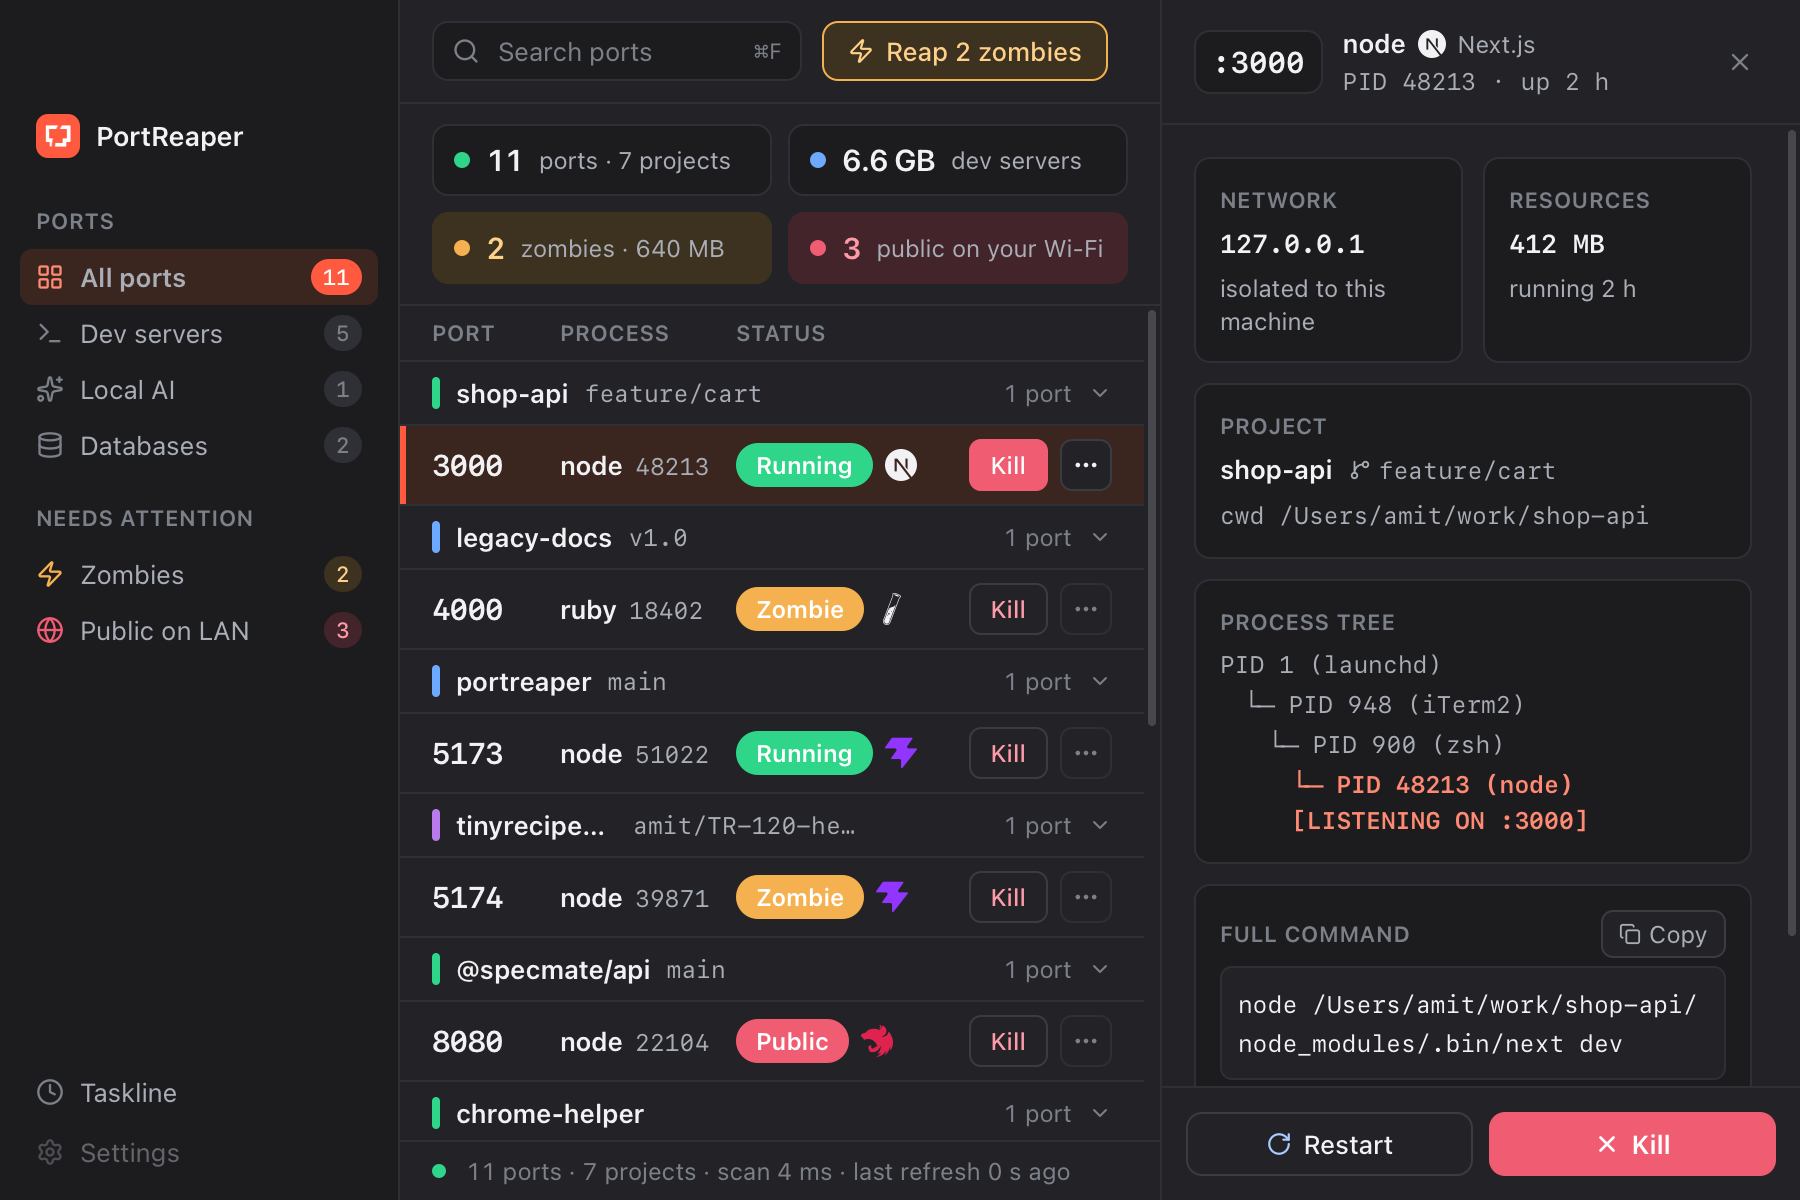
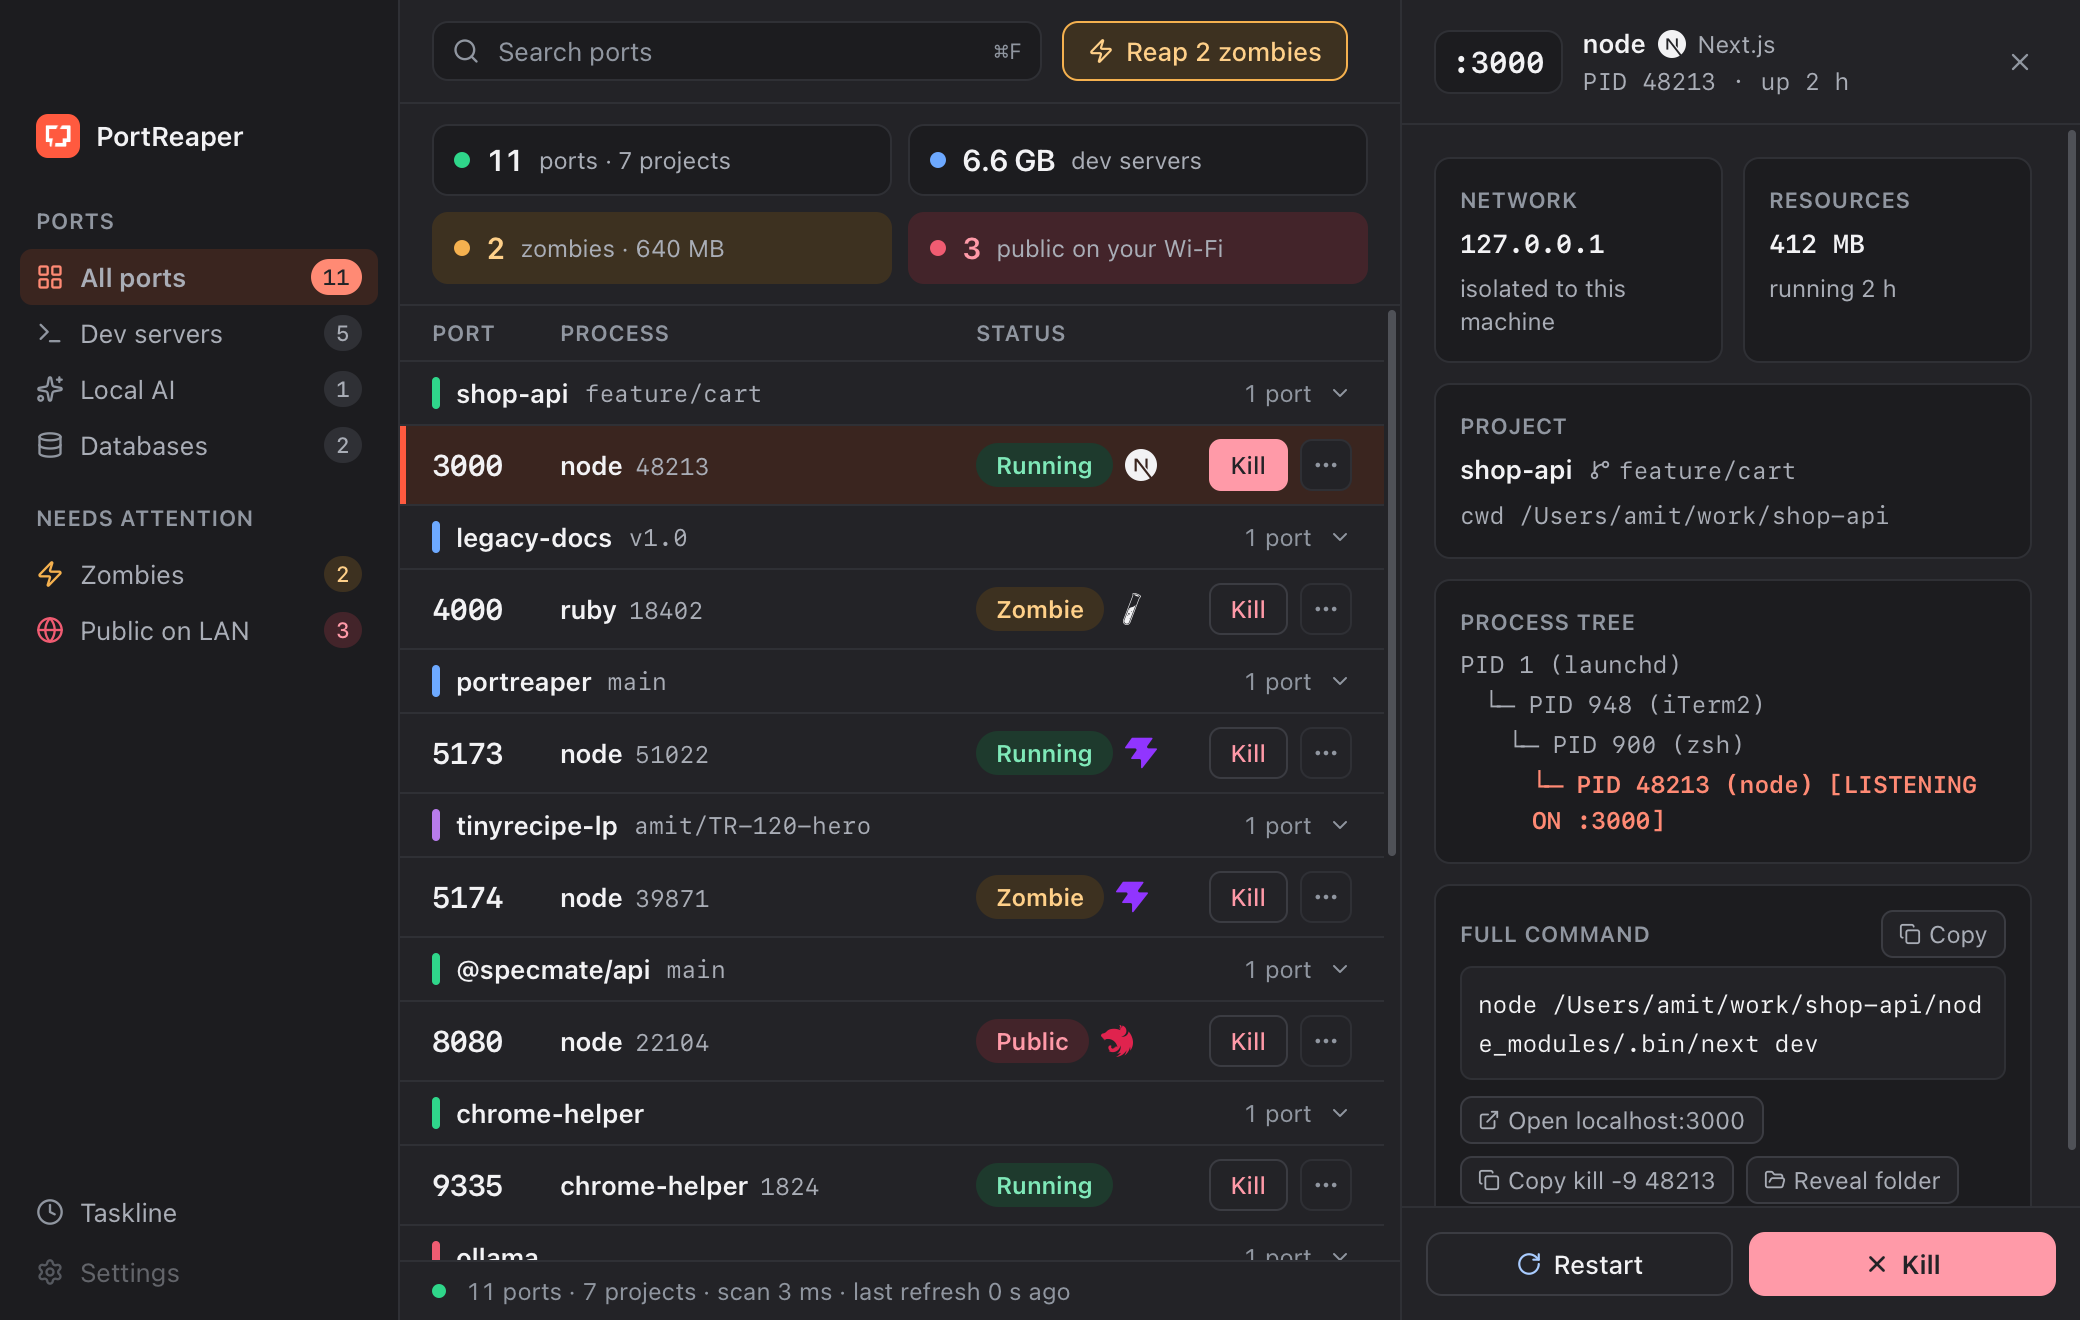
docs: regenerate the screenshots at 1040×660 with the tinted pills; the 0.3.0 line for WP-19
Claude-Session: https://claude.ai/code/session_014oBow5NfEU2pNt3KKwmMyp

diff --git a/CHANGELOG.md b/CHANGELOG.md
@@ -10,7 +10,7 @@ app shows it in its update dialog. Add a section for every release before taggin
 - WP-17a: Preferences in the core: Dock icon, start at login, shortcuts, refresh rate, notifications; one universal build for Intel and Apple Silicon.
 - WP-17b: The Preferences view (⌘,) and a first-run card.
 - WP-18: Watch a port: a notification when it frees up or gets taken.
-- WP-19: Text contrast at AA everywhere; a wider default window.
+- WP-19: Every small text clears WCAG AA: the status pills are a tint with their ink, the filled buttons and badges use the ink shades, the tertiary grey is darker. The window opens at 1040×660 with a 340 px inspector.
 - WP-20: Docker containers by name; Kill stops the container.
 
 ## 0.2.1
